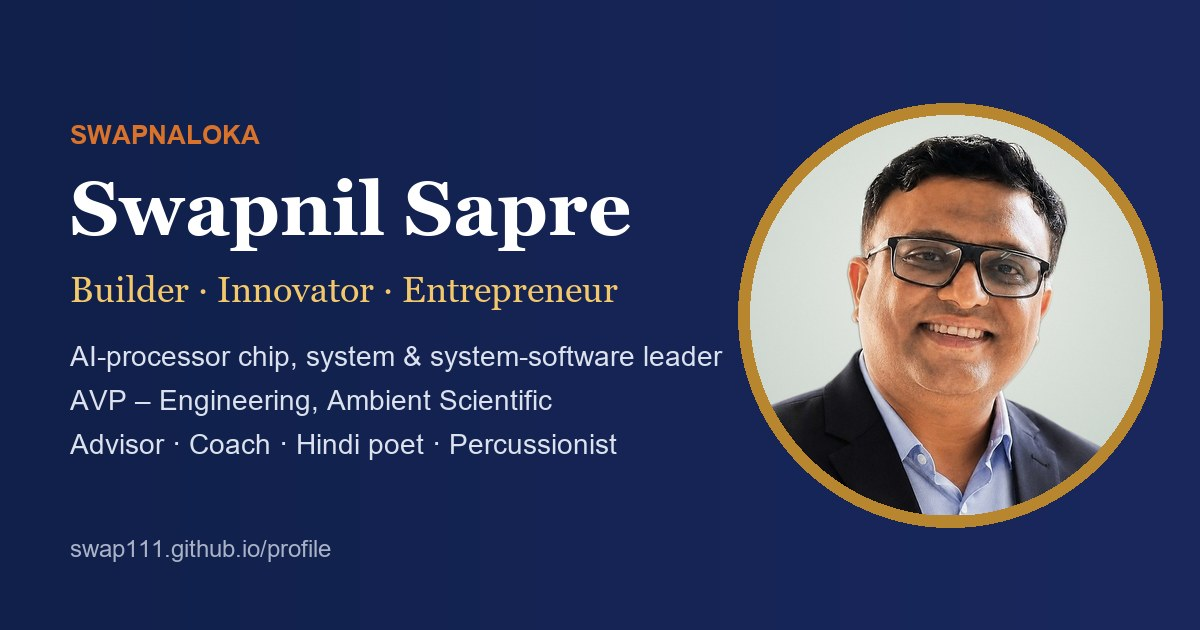
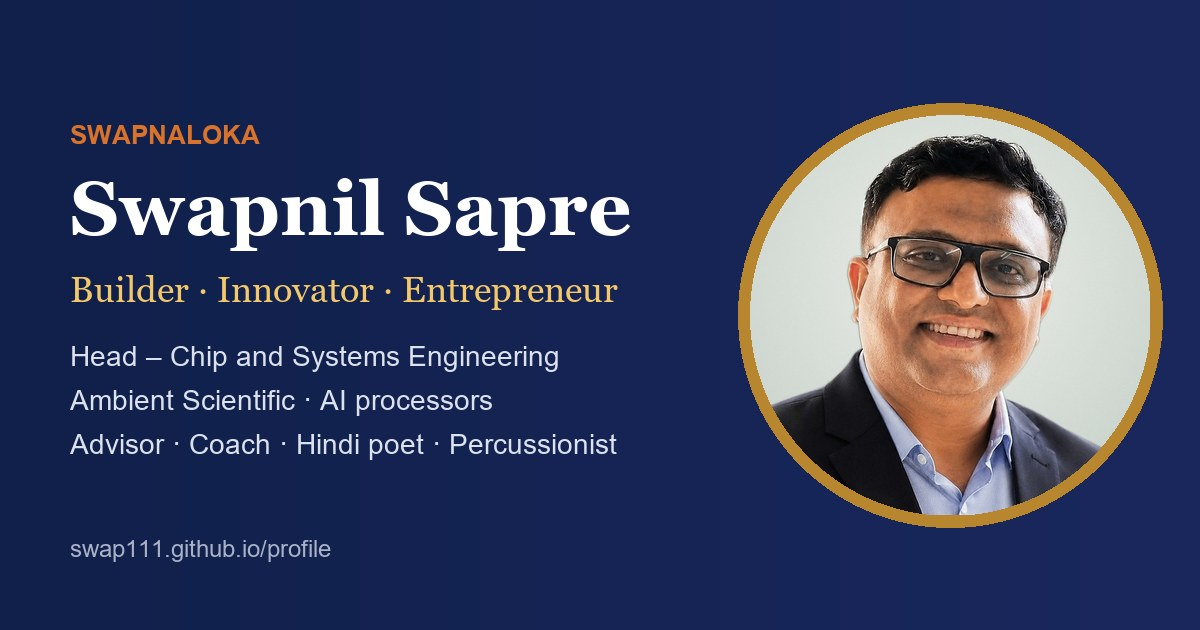
Title: Head - Chip and Systems Engineering; IIMB PGSEM wording; Noorana cover; drop Chuski
Authored by Swapnil

Changed region(s): [[0.0617, 0.5429, 0.6167, 0.6635]]

diff --git a/index.html b/index.html
@@ -68,12 +68,12 @@
       <p class="eyebrow">SwapnaLoka · <span lang="hi">स्वप्नलोक</span> · the pen site of</p>
       <h1>Swapnil Sapre</h1>
       <p class="hero__lead"><strong>Builder · Innovator · Entrepreneur</strong></p>
-      <p class="hero__sub">A semiconductor chip, system and system-software veteran with 24+ years of taking products from spec to silicon to volume. Today I lead engineering for ultra-low-power AI processors as <strong>AVP – Engineering at Ambient Scientific</strong>. I advise, consult and coach teams, lead programs, and write poems and play percussion.</p>
+      <p class="hero__sub">A semiconductor chip, system and system-software veteran with 24+ years of taking products from spec to silicon to volume. Today I lead engineering for ultra-low-power AI processors as <strong>Head – Chip and Systems Engineering at Ambient Scientific</strong>. I advise, consult and coach teams, lead programs, and write poems and play percussion.</p>
       <div class="hero__cta">
         <a class="btn" href="#contact">Work with me</a>
         <a class="btn btn--ghost" href="docs/SwapnaLoka_Profile_Swapnil_Sapre.pdf" download>Download profile (PDF)</a>
       </div>
-      <p class="honour"><span aria-hidden="true">★</span> Distinguished Alumnus, IIM Bangalore</p>
+      <p class="honour"><span aria-hidden="true">✦</span> IIM Bangalore · 2.5-year PGSEM, Software Enterprise Management</p>
       <ul class="chips" aria-label="Roles">
         <li>Advisor</li><li>Consultant</li><li>Coach</li><li>Program leader</li>
         <li>AI processors</li><li>ASIC / SoC</li><li>System software</li><li>Edge AI</li><li>Embedded</li><li>Hindi poet</li><li>Ghazal singer</li><li>Percussionist</li>
@@ -87,7 +87,7 @@
     <div><b>24+</b><span>years in semiconductors &amp; embedded systems</span></div>
     <div><b>6+</b><span>years leading AI-processor silicon &amp; systems</span></div>
     <div><b>Spec → HVM</b><span>end-to-end ownership, design to production</span></div>
-    <div><b>5</b><span>books on tech, music &amp; poetry</span></div>
+    <div><b>4</b><span>books on tech, music &amp; poetry</span></div>
   </div>
 </section>
 
@@ -100,8 +100,8 @@
     </div>
     <div class="prose">
       <p>I'm a semiconductor and systems leader with over two decades across <strong>ASIC/SoC design, chip architecture, AI processors, embedded systems, product engineering and high-volume manufacturing</strong>. I have held engineering and product roles at Ambient Scientific, Western Digital, AMD, Freescale/NXP, Mindtree and Wipro, which gives me an end-to-end view from system architecture and silicon to software, productization and commercial deployment.</p>
-      <p>Today I am <strong>AVP – Engineering at Ambient Scientific</strong>, the AI processor company, where I lead the full silicon-to-system journey of ultra-low-power AI processors: chip, boards, system software and production. I also work as an independent advisor to deep-tech startups and emerging technology organizations. Mostly I help ideas grow into <strong>viable, scalable, market-ready products</strong>.</p>
-      <p>Beyond technology I care about entrepreneurship and intrapreneurship, mentoring young engineers, semiconductor skilling and India's deep-tech ecosystem. I'm a <strong>Distinguished Alumnus of IIM Bangalore</strong>, and I was recognized by the <strong>President of India</strong> for a paper on re-engineering engineering education.</p>
+      <p>Today I am <strong>Head – Chip and Systems Engineering at Ambient Scientific</strong>, the AI processor company, where I lead the full silicon-to-system journey of ultra-low-power AI processors: chip, boards, system software and production. I also work as an independent advisor to deep-tech startups and emerging technology organizations. Mostly I help ideas grow into <strong>viable, scalable, market-ready products</strong>.</p>
+      <p>Beyond technology I care about entrepreneurship and intrapreneurship, mentoring young engineers, semiconductor skilling and India's deep-tech ecosystem. I studied at <strong>IIM Bangalore</strong> in its rigorous 2.5-year Post Graduate Programme in Software Enterprise Management (PGSEM), and I was recognized by the <strong>President of India</strong> for a paper on re-engineering engineering education.</p>
       <p>I'm also a trained Tabla and Mridangam player, a singer of ghazals, bhajans and abhangs, a Hindi poet who writes as <em>"Noor" / "Sopaan Noor"</em>, and a teacher of rhythm. I study Dharma and Jyotish (Indian astrology), and I still love a good game of Kho Kho or Kabaddi.</p>
       <blockquote>Building technology with purpose, businesses with responsibility, teams with trust, and people with empathy.</blockquote>
     </div>
@@ -329,7 +329,7 @@
       </li>
       <li>
         <span class="tl__when">2020 – now</span>
-        <div><h4>AVP – Engineering <small>· Ambient Scientific</small></h4>
+        <div><h4>Head – Chip and Systems Engineering <small>· Ambient Scientific</small></h4>
         <p>Leads the full silicon-to-system lifecycle of ultra-low-power AI processors for <em>the AI processor company</em>: chip spec to GDS2, pre- and post-silicon verification and validation, bring-up and embedded systems, SDK and system software, boards, and tape-out to high-volume production. <a href="#silicon">More →</a></p></div>
       </li>
       <li>
@@ -369,7 +369,7 @@
         <h3 class="sub">Education</h3>
         <ul class="plain">
           <li><b>M.S., VLSI CAD</b> — Manipal University</li>
-          <li><b>PGSEM, Enterprise Management</b> — IIM Bangalore · <span class="gold">Distinguished Alumnus</span></li>
+          <li><b>PGSEM, Software Enterprise Management</b> — IIM Bangalore · rigorous 2.5-year programme</li>
           <li><b>DLP, Embedded Systems</b> — IIT Bombay (Powai)</li>
           <li><b>PG Diploma, VLSI</b> — Bitmapper Integration Technologies</li>
           <li><b>B.E., Electronics &amp; Telecom</b> — BIT Durg</li>
@@ -416,15 +416,9 @@
         <span class="cover__buy">Buy on Amazon →</span>
       </a>
       <a class="cover" href="https://www.amazon.in/s?i=stripbooks&amp;rh=p_27%3ASwapnil%2BSapre" target="_blank" rel="noopener">
-        <span class="cover__art cover__art--noor" aria-hidden="true"><span lang="hi">नूराना</span><small>नूर</small></span>
+        <img src="assets/img/books/noorana.jpg" alt="Cover: नूराना, भाव संग्रह, by Sopaan Noor" width="189" height="267" loading="lazy">
         <span class="cover__kind">Hindi poetry</span>
         <h4>Noorana</h4>
-        <span class="cover__buy">Find on Amazon →</span>
-      </a>
-      <a class="cover" href="https://www.amazon.in/s?i=stripbooks&amp;rh=p_27%3ASwapnil%2BSapre" target="_blank" rel="noopener">
-        <span class="cover__art cover__art--chuski" aria-hidden="true"><span lang="hi">चुस्की</span><small>नूर</small></span>
-        <span class="cover__kind">Hindi poetry</span>
-        <h4>Chuski</h4>
         <span class="cover__buy">Find on Amazon →</span>
       </a>
     </div>
@@ -487,13 +481,17 @@
       <h2><span lang="hi" class="deva">नूर</span> <small>Noor · Sopaan Noor</small></h2>
       <p class="poetry__tag" lang="hi">शब्दों में सुर, सुरों में शब्द।</p>
       <p class="muted">Rhythm in words, words in rhythm.</p>
+      <a class="poetry__book" href="https://www.amazon.in/s?i=stripbooks&amp;rh=p_27%3ASwapnil%2BSapre" target="_blank" rel="noopener">
+        <img src="assets/img/books/noorana.jpg" alt="Cover: नूराना, भाव संग्रह, by Sopaan Noor" width="189" height="267" loading="lazy">
+        <span><b lang="hi">नूराना</b> · भाव संग्रह<br><small>by Sopaan Noor · Find on Amazon →</small></span>
+      </a>
     </div>
     <div class="prose">
       <p>If rhythm is my first instrument, words are my second. I write in Hindi as <strong>"Noor"</strong> (light) and <strong>"Sopaan Noor"</strong> (steps of light). My ghazals, nazms, geet and bhajans are about love, longing, devotion, family, Dharma and the quiet joy of ordinary days.</p>
       <p>For promoting Hindi literature I have been honoured as a <strong>"Literary Colonel"</strong>. I organize <strong>Kavi Sammelans</strong> and poetry ensembles where poets, singers and musicians share one stage, and I often set my own verse to tune and taal.</p>
       <div class="poetry__grid">
-        <div><b lang="hi">नूराना</b><span>Noorana: a collection of ghazals and poems</span></div>
-        <div><b lang="hi">चुस्की</b><span>Chuski: short, warm sips of verse</span></div>
+        <div><b lang="hi">नूराना</b><span>Noorana: a bhaav sangrah, a collection of feelings in verse</span></div>
+        <div><b lang="hi">ग़ज़ल · नज़्म</b><span>Ghazals and nazms, often set to tune and sung in my own voice</span></div>
         <div><b lang="hi">राम गुंजन</b><span>Raam Gunjan: 11 bhajans to Shri Rama, written, composed and sung by me</span></div>
         <div><b lang="hi">कवि सम्मेलन</b><span>Kavi Sammelans: hosting and reciting at poetry evenings</span></div>
       </div>

diff --git a/assets/css/style.css b/assets/css/style.css
@@ -301,7 +301,7 @@ blockquote {
 .gold { color: var(--gold); font-weight: 600; }
 
 /* book shelf with real covers */
-.shelf { display: grid; grid-template-columns: repeat(5, 1fr); gap: 1.4rem; align-items: start; }
+.shelf { display: grid; grid-template-columns: repeat(4, 1fr); gap: 1.6rem; align-items: start; max-width: 940px; margin: 0 auto; }
 .cover { text-decoration: none; color: var(--ink); display: flex; flex-direction: column; }
 .cover img, .cover__art {
   width: 100%; aspect-ratio: 2/3; object-fit: cover; border-radius: 3px 8px 8px 3px;
@@ -315,7 +315,6 @@ blockquote {
 }
 .cover__art small { font: 500 .95rem var(--sans); opacity: .85; letter-spacing: .1em; }
 .cover__art--noor { background: radial-gradient(circle at 50% 30%, #f3c86a 0 18%, transparent 19%), linear-gradient(160deg, #1b3270, #0c1530); }
-.cover__art--chuski { background: radial-gradient(circle at 70% 25%, rgba(255,255,255,.2) 0 14%, transparent 15%), linear-gradient(160deg, #d9732b, #8a3b5c); }
 .cover__kind { font-size: .7rem; font-weight: 600; letter-spacing: .1em; text-transform: uppercase; color: var(--muted); }
 .cover h4 { font-size: 1rem; margin: .25rem 0 .35rem; }
 .cover__buy { font-size: .88rem; font-weight: 600; color: var(--gold); }
@@ -385,7 +384,6 @@ blockquote {
 .hobby p { color: var(--ink-soft); font-size: .94rem; margin: 0; }
 
 @media (max-width: 1000px) {
-  .shelf { grid-template-columns: repeat(3, 1fr); }
   .vgrid { grid-template-columns: repeat(3, 1fr); }
   .articles, .hobbies, .repertoire { grid-template-columns: repeat(2, 1fr); }
 }
@@ -406,3 +404,9 @@ blockquote {
 .music__photo { margin: 1.4rem 0 1.4rem; }
 .music__photo img { border-radius: var(--radius); box-shadow: 0 14px 34px rgba(0,0,0,.45); border: 1px solid rgba(243,200,106,.35); }
 @media (max-width: 860px) { .silicon__band { grid-template-columns: repeat(2, 1fr); } .silicon__band div:nth-child(2) { border-right: 0; } .silicon__band div:nth-child(-n+2) { border-bottom: 1px solid rgba(255,255,255,.14); } }
+
+.poetry__book { display: flex; align-items: center; gap: 1rem; margin-top: 1.6rem; text-decoration: none; color: var(--ink); }
+.poetry__book img { width: 120px; border-radius: 3px 8px 8px 3px; box-shadow: 0 10px 24px rgba(16,32,74,.22); transition: transform .25s; }
+.poetry__book:hover img { transform: translateY(-4px) rotate(-1deg); }
+.poetry__book b { font: 700 1.3rem var(--serif); color: var(--saffron); }
+.poetry__book small { color: var(--gold); font-weight: 600; }

diff --git a/tools/build_profile.py b/tools/build_profile.py
@@ -16,8 +16,7 @@ NAVY, GOLD, SAFFRON, INK, SOFT = "10204A", "B8862F", "D9732B", "16213A", "4A5571
 TITLE = "Swapnil Sapre"
 TAGLINE = "Builder · Innovator · Entrepreneur"
 ROLES = ("Semiconductor, Embedded-Systems & Deep-Tech AI Veteran · Advisor · Consultant · "
-         "Coach · Program Leader · Hindi Poet · Ghazal Singer · Percussionist · "
-         "Distinguished Alumnus, IIM Bangalore")
+         "Coach · Program Leader · Hindi Poet · Ghazal Singer · Percussionist")
 CONTACT = [
     ("Location", "Bengaluru, India"),
     ("LinkedIn", "linkedin.com/in/swapnils29"),
@@ -28,7 +27,7 @@ CONTACT = [
 STATS = [("24+", "years in semiconductors & embedded systems"),
          ("6+", "years leading AI-processor silicon"),
          ("Spec to HVM", "end-to-end product ownership"),
-         ("5", "books: technology, music, poetry")]
+         ("4", "books: technology, music, poetry")]
 
 ABOUT = [
     "Swapnil Sapre is a semiconductor and systems leader with over 24 years across ASIC/SoC design, "
@@ -36,13 +35,13 @@ ABOUT = [
     "manufacturing. He has held engineering and product roles at Ambient Scientific, Western Digital, "
     "AMD, Freescale/NXP, Mindtree and Wipro, which gives him an end-to-end view from system architecture "
     "and silicon to software, productization and commercial deployment.",
-    "Today he is AVP – Engineering at Ambient Scientific, the AI processor company, where he leads the full "
+    "Today he is Head – Chip and Systems Engineering at Ambient Scientific, the AI processor company, where he leads the full "
     "silicon-to-system journey of ultra-low-power AI processors: chip, boards, system software (SDK) and "
     "production, with cross-functional teams and global partners. He also advises deep-tech startups and "
     "emerging technology organizations on turning ideas into viable, scalable, market-ready products. "
     "He builds ventures where technology meets culture, music and well-being, and he mentors engineers "
     "and founders.",
-    "He is a Distinguished Alumnus of IIM Bangalore. He is also a trained Tabla and Mridangam player, a singer "
+    "He studied at IIM Bangalore in its rigorous 2.5-year PGSEM programme in Software Enterprise Management. He is also a trained Tabla and Mridangam player, a singer "
     "of ghazals, bhajans and abhangs, the composer of the bhajan album \"Raam Gunjan\", the founder of the "
     "Damruki school of rhythm, and a Hindi poet who writes as \"Noor\" / \"Sopaan Noor\". He studies Dharma "
     "and Jyotish (Indian astrology) and is a fan of Kho Kho and Kabaddi.",
@@ -75,7 +74,7 @@ EXPERTISE = [
 
 CAREER = [
     ("2026 – now", "Consultant & Advisor", "Independent", "Part-time engagements in FPGA prototyping, deep-tech GTM, AI vision chips, cryogenic ICs, AR/VR learning, and teaching."),
-    ("2020 – now", "AVP – Engineering", "Ambient Scientific", "Leads the full silicon-to-system lifecycle of ultra-low-power AI processors at the AI processor company: chip spec to GDS2, pre- and post-silicon verification and validation, bring-up, SDK and system software, test/evaluation/customer boards, and tape-out to high-volume production; built the always-on audio wake-word and vision validation methodology that opened the platform to ML developers; leads cross-functional chip, system and software teams with global partners."),
+    ("2020 – now", "Head – Chip and Systems Engineering", "Ambient Scientific", "Leads the full silicon-to-system lifecycle of ultra-low-power AI processors at the AI processor company: chip spec to GDS2, pre- and post-silicon verification and validation, bring-up, SDK and system software, test/evaluation/customer boards, and tape-out to high-volume production; built the always-on audio wake-word and vision validation methodology that opened the platform to ML developers; leads cross-functional chip, system and software teams with global partners."),
     ("2012 – 2020", "System Architect, Technologist & Product Line Manager", "Western Digital", "Flash-storage products (SD, microSD, SSD, NVMe) from SoC architecture to certified shipping product; ran the SD/microSD line."),
     ("2011 – 2012", "Senior Design Engineer", "AMD", "Fusion SoC verification; led the global graphics OVC; DDR3 PHY DFx."),
     ("2007 – 2011", "Module Lead", "Mindtree", "DMA controller architecture, a configurable SoC verification platform, DO-254 IP; clients included Intel and Nokia."),
@@ -88,8 +87,7 @@ BOOKS = [
     ("Nuts and Bolts of Open Hardware", "Technology, 2012 (ISBN 9781300339861)"),
     ("Python — a Kid's and Hardware Engineer's Perspective", "Technology, 2012 (ISBN 9781300339403)"),
     ("Understanding Indian Music through Rhythms", "Music course book, 2016 (ISBN 9781365588259)"),
-    ("Noorana", "Hindi poetry, as \"Noor\""),
-    ("Chuski", "Hindi poetry"),
+    ("Noorana", "Hindi poetry (bhaav sangrah), as \"Sopaan Noor\""),
 ]
 ARTICLES = [
     "Mungi Udali Akashi: When the Small Transcends the Infinite (LinkedIn, Nov 2026)",
@@ -118,7 +116,7 @@ MUSIC = [
 
 POETRY = [
     "Writes Hindi poetry as \"Noor\" (light) and \"Sopaan Noor\" (steps of light): ghazals, nazms, geet and "
-    "bhajans about love, longing, devotion, family, Dharma and everyday joy. Collections: \"Noorana\" and \"Chuski\".",
+    "bhajans about love, longing, devotion, family, Dharma and everyday joy. Collection: \"Noorana\" (bhaav sangrah).",
     "Honoured as a \"Literary Colonel\" for promoting Hindi literature. Organizes Kavi Sammelans and poetry "
     "ensembles, and often sets his own verse to tune and taal.",
 ]
@@ -133,7 +131,6 @@ INTERESTS = [
     ("Tinkering", "FPGA boards, RISC-V cores, Python, teaching kids to build"),
 ]
 HONOURS = [
-    "Distinguished Alumnus, IIM Bangalore",
     "Recognized by the President of India for a paper on re-engineering engineering education",
     "\"Literary Colonel\" for promoting Hindi literature",
     "\"BRAVO\" award, Freescale, for the ARM validation suite",
@@ -141,7 +138,7 @@ HONOURS = [
 
 EDUCATION = [
     ("M.S., VLSI CAD", "Manipal University"),
-    ("PGSEM, Enterprise Management", "IIM Bangalore · Distinguished Alumnus"),
+    ("PGSEM, Software Enterprise Management (2.5-year programme)", "IIM Bangalore"),
     ("DLP, Embedded Systems", "IIT Bombay (Powai)"),
     ("PG Diploma, VLSI", "Bitmapper Integration Technologies"),
     ("B.E., Electronics & Telecommunication", "BIT Durg"),

diff --git a/README.md b/README.md
@@ -13,15 +13,15 @@ Swapnil Sapre has spent **24+ years** in semiconductors and embedded systems, ta
 
 | | |
 |---|---|
-| **Now** | AVP – Engineering, **Ambient Scientific**: AI-processor chip, system and system software, spec to volume (2020–) · Independent consultant & advisor (2026–) |
+| **Now** | Head – Chip and Systems Engineering, **Ambient Scientific**: AI-processor chip, system and system software, spec to volume (2020–) · Independent consultant & advisor (2026–) |
 | **Before** | Western Digital (system architect, product line manager: SD / microSD / SSD / NVMe) · AMD · Freescale/NXP · Mindtree · Wipro |
 | **Builds** | [Chiluka](https://chiluka.online) · [SwaraKul](https://swarakul.online) · **Damruki**: School of Rhythm & Seven Swaras (founder) · [**Suphala Care**](https://suphalacare.com): holistic nutrition & wellness with Dr Suguna Sapre, plus the [SuViva](https://suphalacare.com/suviva/) network |
-| **Writes** | *Nuts and Bolts of Open Hardware* · *Python — a Kid's and Hardware Engineer's Perspective* · *Understanding Indian Music through Rhythms* · Hindi poetry *Noorana* and *Chuski* (as "Noor" / "Sopaan Noor") |
+| **Writes** | *Nuts and Bolts of Open Hardware* · *Python — a Kid's and Hardware Engineer's Perspective* · *Understanding Indian Music through Rhythms* · Hindi poetry *Noorana* (bhaav sangrah, as "Sopaan Noor") |
 | **Plays** | Tabla (Khairagarh, Shri Suresh Samant, Dr. Aneesh Pradhan) and Mridangam (late Dr. Nandyala Ramamurthy) · album *Raam Gunjan* |
 | **Sings** | Ghazal & nazm, bhajan, abhang, kirtan, Hindustani and Carnatic repertoire, folk and film |
-| **Honours** | **Distinguished Alumnus, IIM Bangalore** · Recognized by the President of India (paper on re-engineering engineering education) · "Literary Colonel" (Hindi literature) · Freescale "BRAVO" award |
+| **Honours** | Recognized by the President of India (paper on re-engineering engineering education) · "Literary Colonel" (Hindi literature) · Freescale "BRAVO" award |
 | **Interests** | Dharma & the poet-saints · Jyotish (Indian astrology) · Kho Kho & Kabaddi · solo travel · Nada Yoga · open hardware |
-| **Studied** | M.S. VLSI CAD (Manipal) · IIM Bangalore PGSEM · IIT Bombay DLP Embedded Systems · B.E. E&TC (BIT Durg) |
+| **Studied** | M.S. VLSI CAD (Manipal) · IIM Bangalore PGSEM, Software Enterprise Management (2.5-year programme) · IIT Bombay DLP Embedded Systems · B.E. E&TC (BIT Durg) |
 
 **Find him on:** [LinkedIn](https://www.linkedin.com/in/swapnils29/) · [YouTube: Bansuri Beats](https://youtube.com/playlist?list=PLEvT8t4QvqOaNjM0dtJCjaw-OOXxShNex) · [Facebook](https://www.facebook.com/swapsap1) · [Books on Amazon](https://www.amazon.in/s?i=stripbooks&rh=p_27%3ASwapnil%2BSapre&ref=dp_byline_sr_book_1)
 
@@ -86,7 +86,7 @@ It works the same on any static host (Hostinger, Netlify, Cloudflare Pages). Jus
 ## Ideas for next steps
 
 - Custom domain, for example `swapnaloka.in`, and an Open Graph share image.
-- Amazon links and covers for *Noorana* and *Chuski* (currently stylised covers that link to the author search).
+- A direct Amazon link for *Noorana* (currently links to the author search).
 - A few selected poems by "Noor" (Devanagari) and recordings of ghazals.
 - A "Writing" feed that pulls the latest SwapnaLoka newsletter articles from LinkedIn.
 - Testimonials, using the LinkedIn recommendations.
